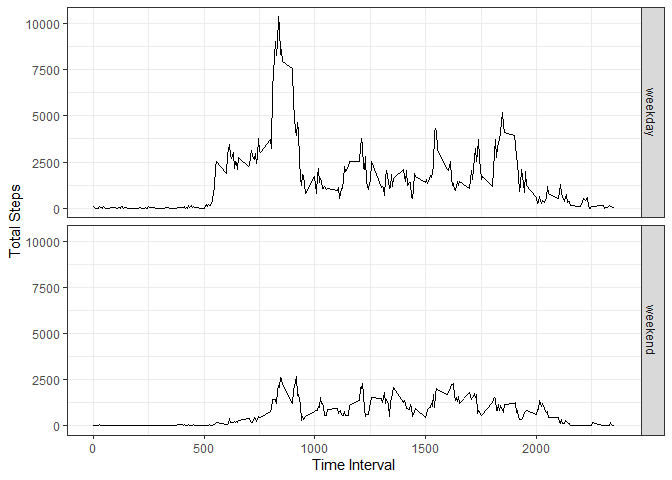
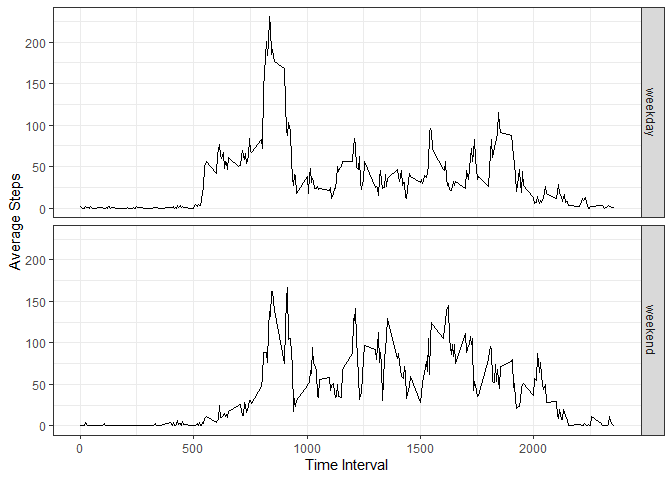
Update generated files.

diff --git a/PA1_template.html b/PA1_template.html
@@ -215,7 +215,7 @@ data &lt;- as_tibble(read.csv(file.path(&quot;tmp&quot;, &quot;activity.csv&quot
           main = &quot;Average Daily Activity Pattern&quot;)
 )</code></pre>
[1 lines of base64/hex data omitted]
-<p>The time interval with maximum steps averaged across all days:</p>
+<p>Which 5-minute interval, on average across all the days in the dataset, contains the maximum number of steps?</p>
 <pre class="r"><code>with(average_activity,
      interval[which.max(mean_steps)]
 )</code></pre>
@@ -262,14 +262,14 @@ imputed_data[missing_data, &quot;steps&quot;] &lt;- missing_data_fill_in</code><
     as.POSIXlt(date)$wday == 6 ~ &quot;weekend&quot;,
     TRUE ~ &quot;weekday&quot;))) %&gt;%
   group_by(day_type, interval) %&gt;%
-  summarise(total_steps = sum(steps))</code></pre>
-<pre class="r"><code>ggplot(weekday_vs_weekend, aes(x = interval, y = total_steps)) +
+  summarise(average_steps = mean(steps))</code></pre>
+<pre class="r"><code>ggplot(weekday_vs_weekend, aes(x = interval, y = average_steps)) +
   facet_grid(day_type ~ .) +
   geom_line() +
-  xlab(&quot;Time Interval&quot;) + ylab(&quot;Total Steps&quot;) +
+  xlab(&quot;Time Interval&quot;) + ylab(&quot;Average Steps&quot;) +
   theme_bw()</code></pre>
[1 lines of base64/hex data omitted]
-<p>On weekdays the number of steps are slightly higher than on the weekend. Particularly, the activity starts earlier with a peak at about 8-9am, which differs fundamentally to the weekend pattern.</p>
[1 lines of base64/hex data omitted]
+<p>On weekdays the activity seems to start earlier and there is a peak at about 8-9am which is a bit more pronounced than on the weekend. On the weekend, the number of steps during the afternoon seems to be a but higher and the activity lasts a bit longer than on weekdays (after 8pm).</p>
 </div>
 
 

diff --git a/PA1_template.md b/PA1_template.md
@@ -87,7 +87,7 @@ with(average_activity,
 
 ![](PA1_template_files/figure-html/average_activity_pattern-1.png)<!-- -->
 
-The time interval with maximum steps averaged across all days:
+Which 5-minute interval, on average across all the days in the dataset, contains the maximum number of steps?
 
 
 ```r
@@ -183,20 +183,21 @@ weekday_vs_weekend <- imputed_data %>%
     as.POSIXlt(date)$wday == 6 ~ "weekend",
     TRUE ~ "weekday"))) %>%
   group_by(day_type, interval) %>%
-  summarise(total_steps = sum(steps))
+  summarise(average_steps = mean(steps))
 ```
 
 
 ```r
-ggplot(weekday_vs_weekend, aes(x = interval, y = total_steps)) +
+ggplot(weekday_vs_weekend, aes(x = interval, y = average_steps)) +
   facet_grid(day_type ~ .) +
   geom_line() +
-  xlab("Time Interval") + ylab("Total Steps") +
+  xlab("Time Interval") + ylab("Average Steps") +
   theme_bw()
 ```
 
 ![](PA1_template_files/figure-html/weekday_vs_weekend_pattern-1.png)<!-- -->
 
-On weekdays the number of steps are slightly higher than on the weekend.
-Particularly, the activity starts earlier with a peak at about 8-9am,
-which differs fundamentally to the weekend pattern.
+On weekdays the activity seems to start earlier and there is a peak at about 8-9am
+which is a bit more pronounced than on the weekend.
+On the weekend, the number of steps during the afternoon seems to be a but higher
+and the activity lasts a bit longer than on weekdays (after 8pm).
